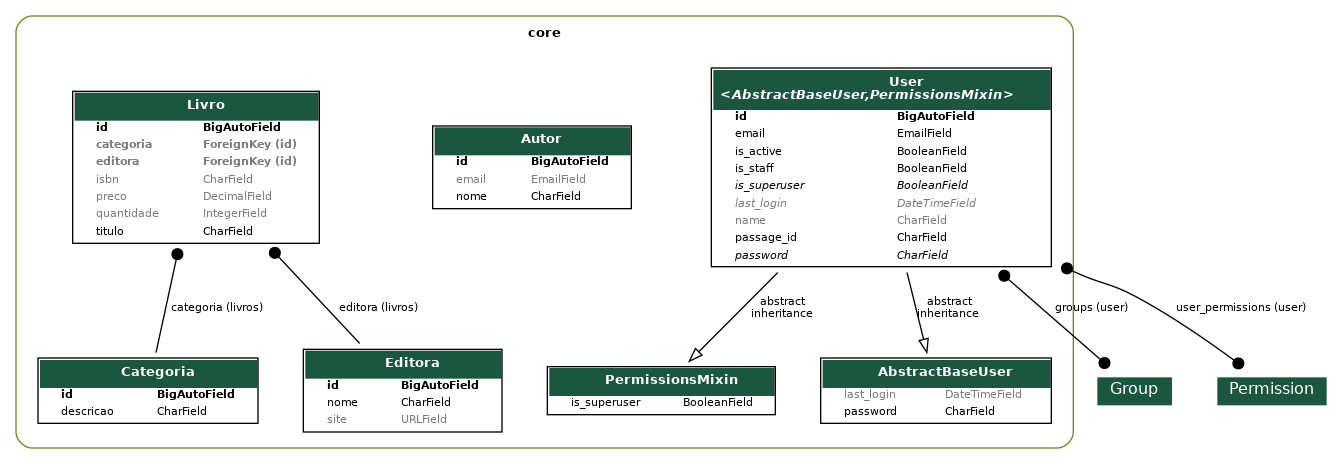
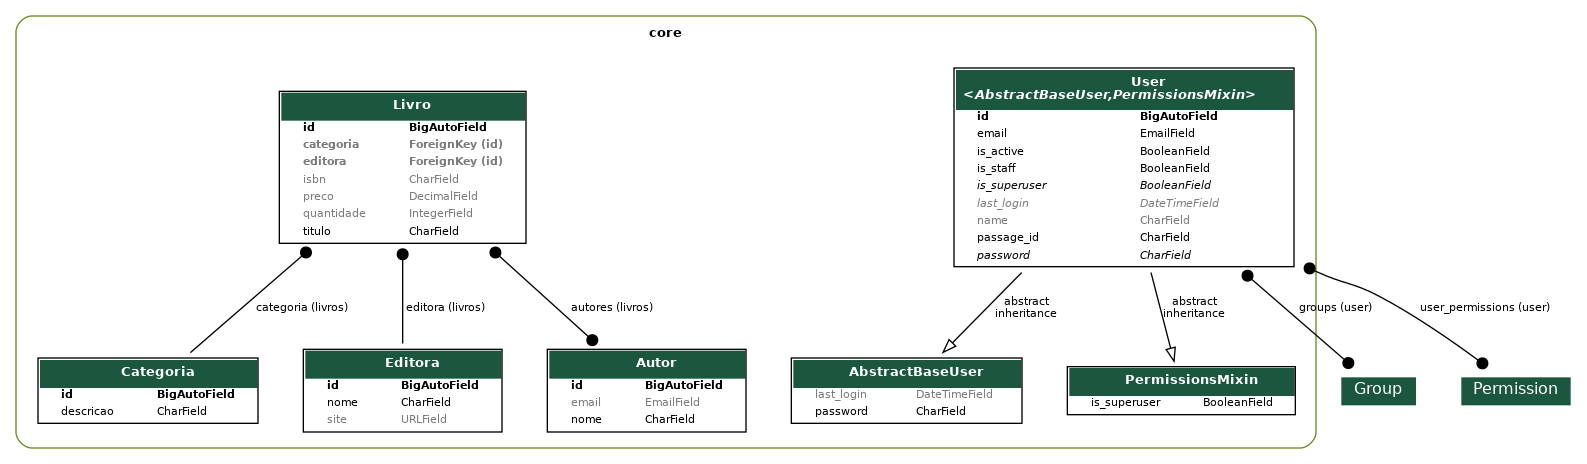
feat: inclusão do relacionamento n para n entre Livro e Autor

diff --git a/core/models/livro.py b/core/models/livro.py
@@ -1,5 +1,6 @@
 from django.db import models
 
+from .autor import Autor
 from .categoria import Categoria
 from .editora import Editora
 
@@ -10,6 +11,8 @@ class Livro(models.Model):
     preco = models.DecimalField(max_digits=7, decimal_places=2, default=0, null=True, blank=True)
     categoria = models.ForeignKey(Categoria, on_delete=models.PROTECT, related_name='livros', null=True, blank=True)
     editora = models.ForeignKey(Editora, on_delete=models.PROTECT, related_name="livros", null=True, blank=True)
+    autores = models.ManyToManyField(Autor, related_name="livros", blank=True)
+
 
     def __str__(self):
         return f'({self.id}) {self.titulo} ({self.quantidade})'

diff --git a/core/migrations/0011_livro_autores.py b/core/migrations/0011_livro_autores.py
@@ -1,0 +1,18 @@
+# Generated by Django 5.1.7 on 2025-04-22 19:13
+
+from django.db import migrations, models
+
+
+class Migration(migrations.Migration):
+
+    dependencies = [
+        ('core', '0010_livro_editora'),
+    ]
+
+    operations = [
+        migrations.AddField(
+            model_name='livro',
+            name='autores',
+            field=models.ManyToManyField(blank=True, related_name='livros', to='core.autor'),
+        ),
+    ]
